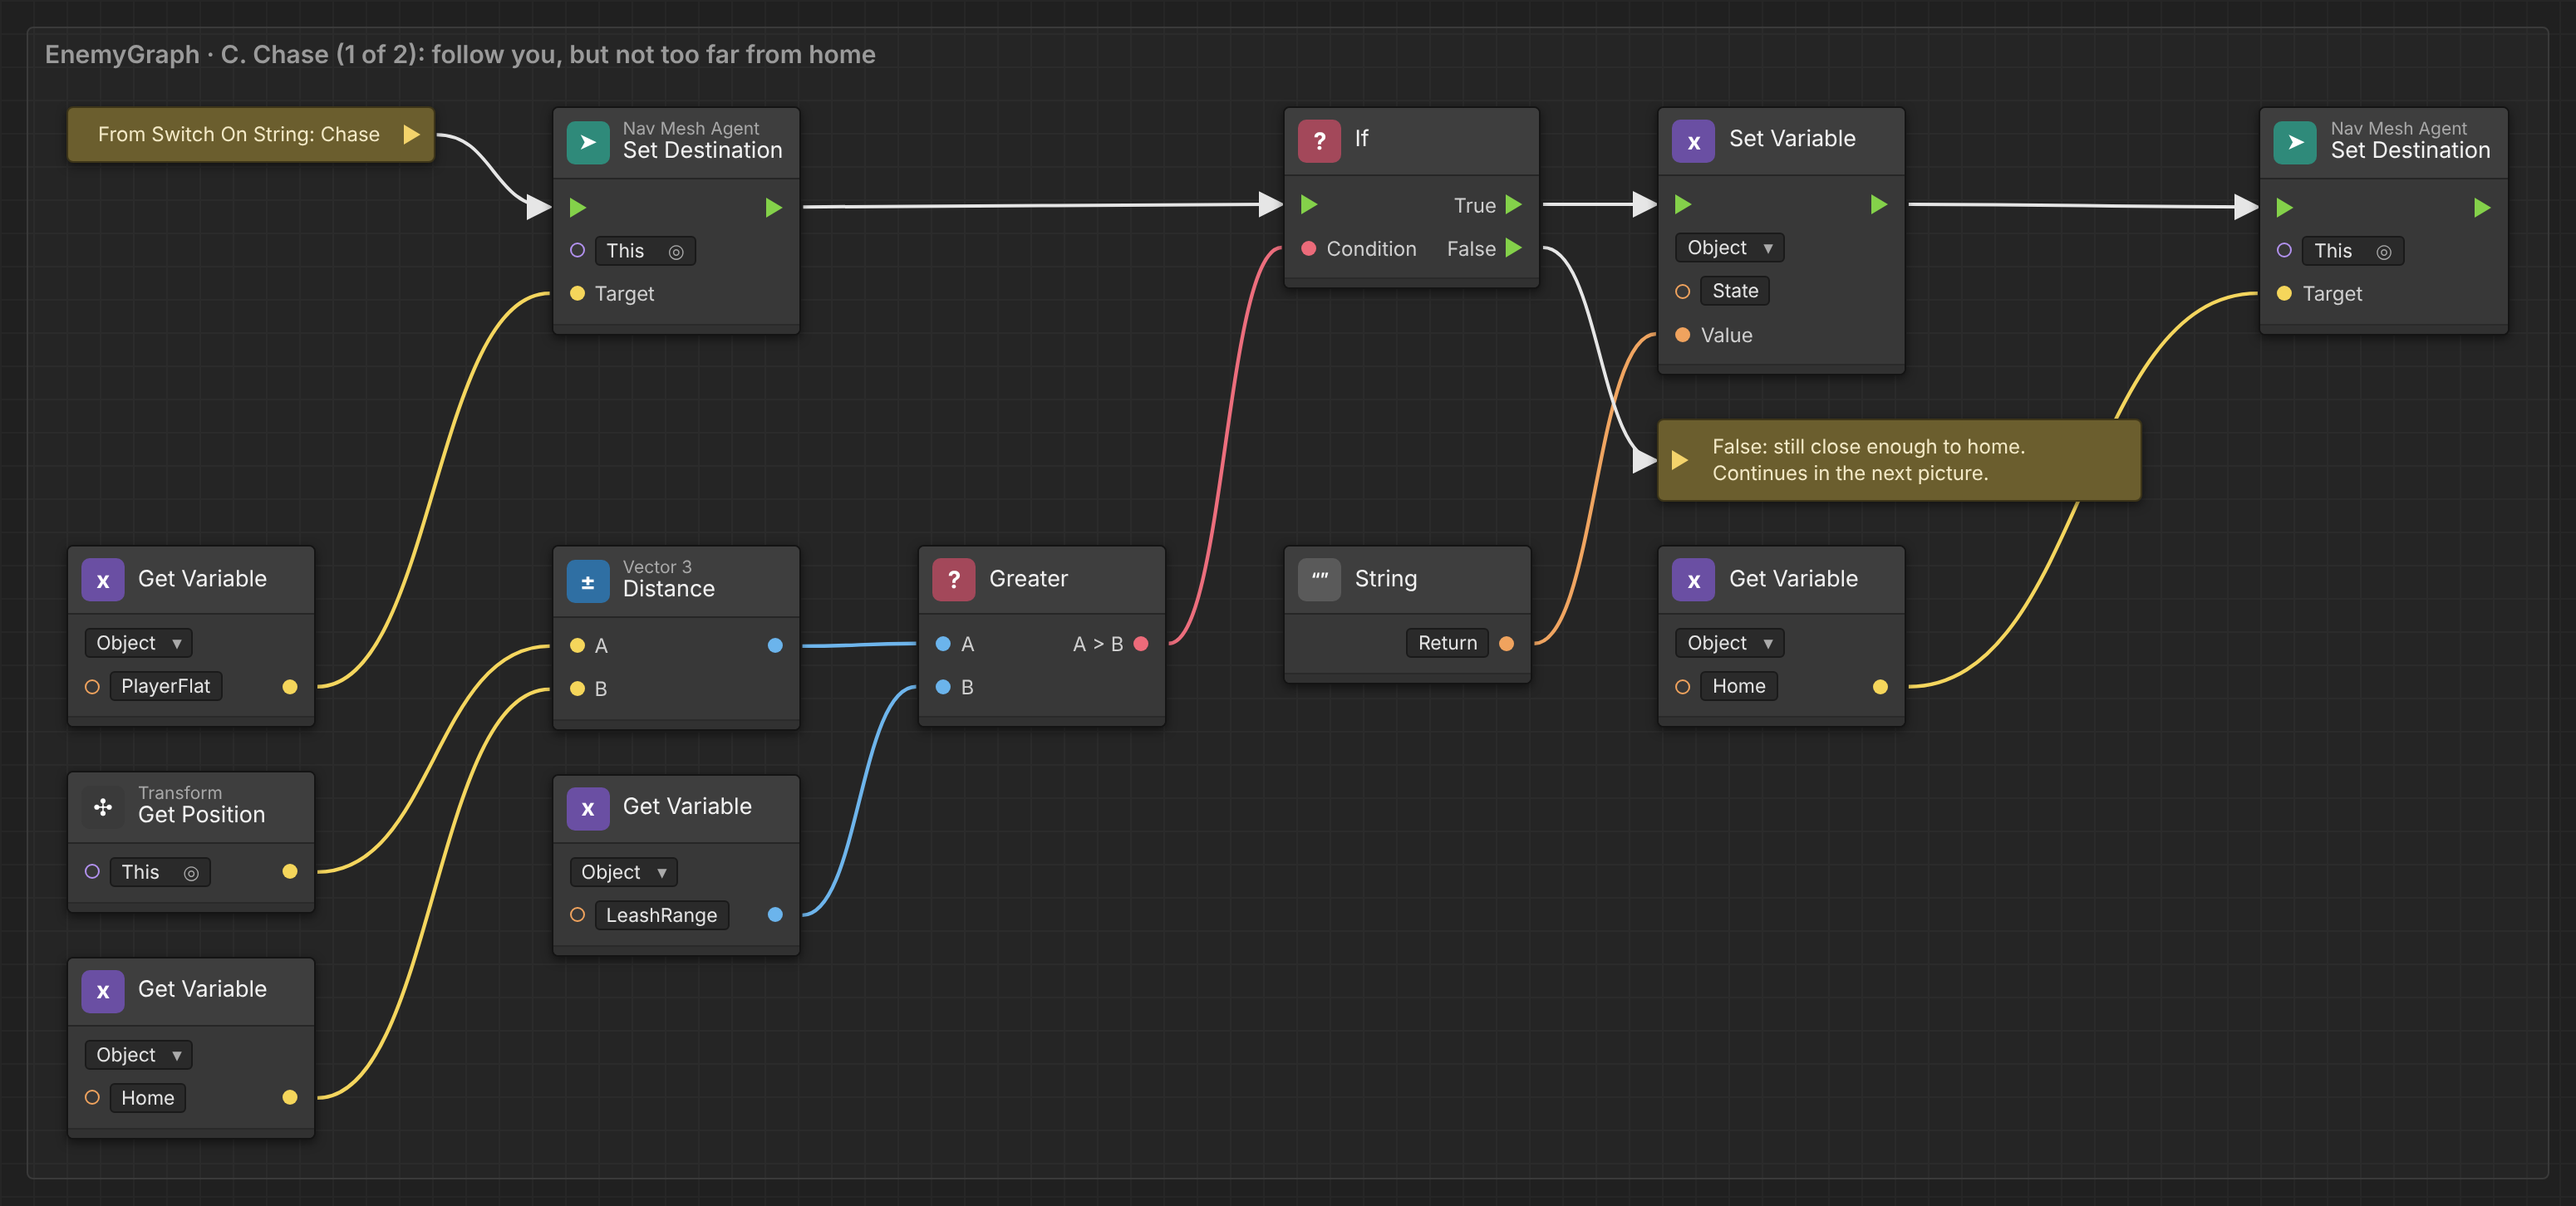
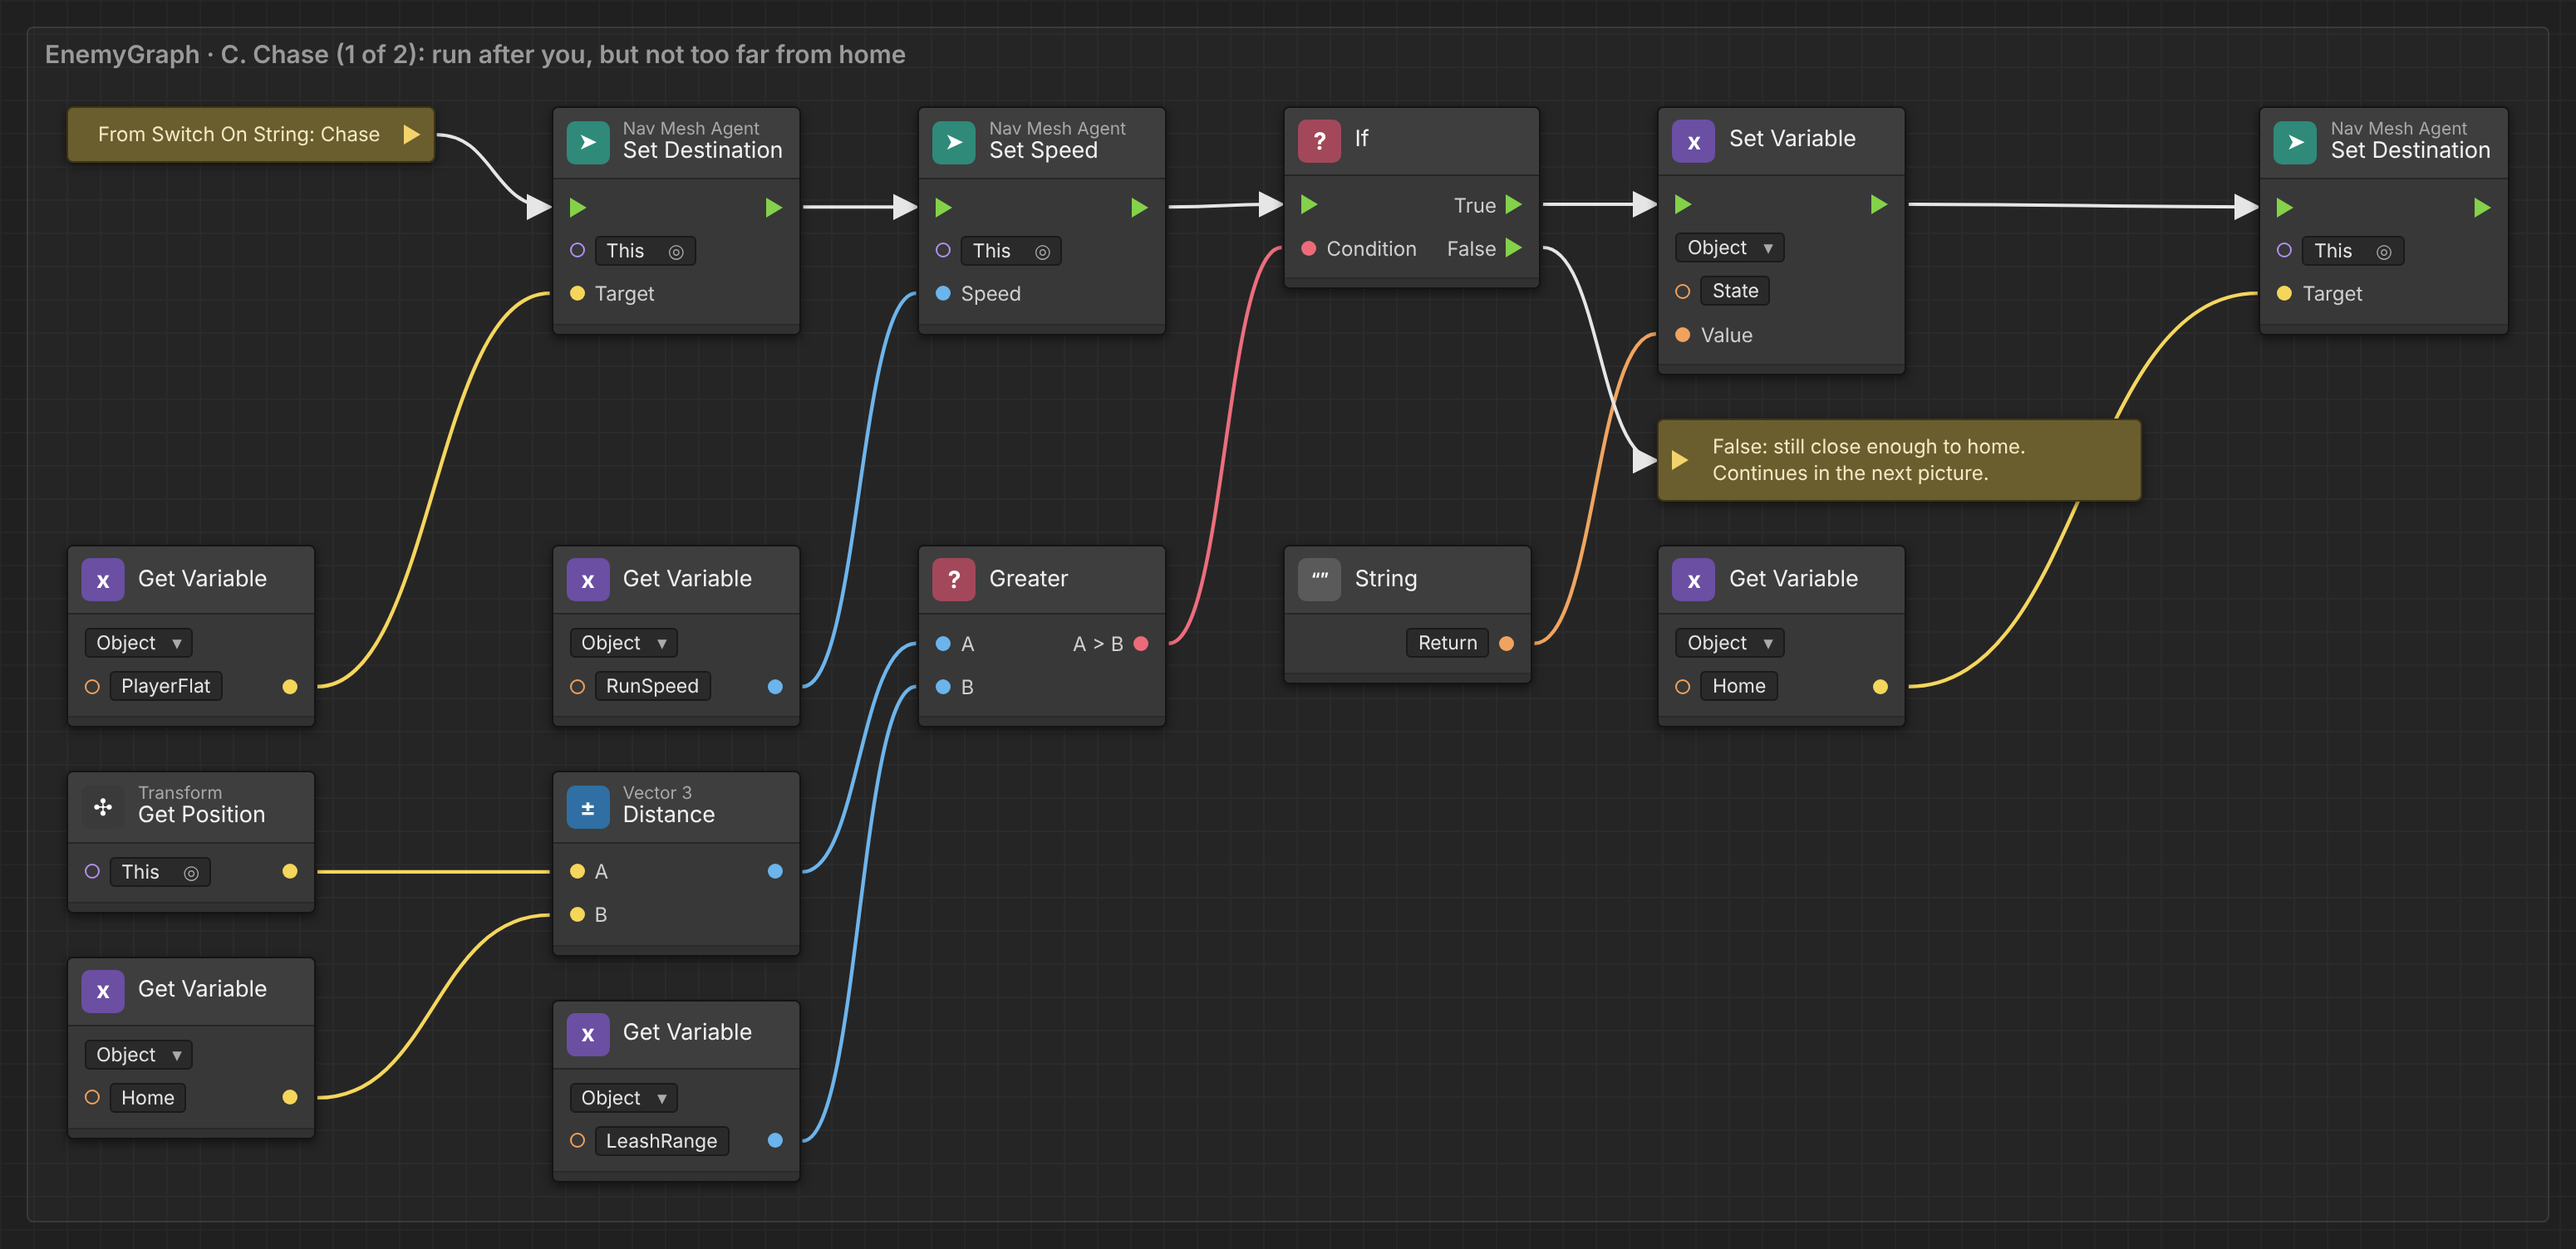
Guide review: fix sword grabbing, HUD attach, death animation, chase speed
Checked the Unity guide against the SDK source:
- 3.1: the sword must not be kinematic. Grabbing pulls the object with a
  joint, which can't move a kinematic body (its speed would read 0). The
  sword now rests on a table.
- 5.1: BS Attached Object needs Uid "me"; an empty uid attaches to nobody.
- 6.6: reset the Hit and Attack triggers before Die, so the killing
  blow's Hit trigger can't pull the enemy out of its death animation.
  Part E is now four pictures.
- 6.4 Chase sets RunSpeed itself, so an enemy you hit while it wanders
  doesn't chase at walking speed.
- Smaller: Blade layer wording, literal-node and Equal "Numeric" tips,
  "Time: Get Time" name, re-baking the NavMesh without the enemy's layer,
  respawn time, three new troubleshooting rows.

Claude-Session: https://claude.ai/code/session_011fRxcoanufUczCyxNcpNPN

diff --git a/docs/unity-first-scene.md b/docs/unity-first-scene.md
@@ -32,6 +32,7 @@ Hierarchy
 ├── PlayerHUD             (attached to your head: your health bar)
 │   └── HUD Bar Pivot
 │       └── HUD Bar Fill
+├── Table                 (the sword rests on it)
 ├── Sword                 (grabbable)
 │   ├── Grip              (where your hand holds it)
 │   ├── Blade             (trigger collider, tag UserTag1)
@@ -207,8 +208,11 @@ knows):
 1. Select `Ground`. **Add Component** → search **NavMeshSurface** → add it.
 2. On the NavMeshSurface component, click **Bake**.
 3. You'll see a blue overlay on the ground in the Scene view. That's where the
-   enemy can walk. If you add obstacles later (rocks, walls), click **Bake**
-   again.
+   enemy can walk. If you add obstacles later (rocks, walls, the table in
+   3.1), click **Bake** again. **Before re-baking once the enemy exists**, set
+   the NavMeshSurface's **Include Layers** to leave out **UserLayer9**
+   (the enemy's layer, Part 4); otherwise the enemy cuts a hole in its own
+   walkable area.
 
 ---
 
@@ -220,12 +224,15 @@ knows):
    synced so others see it move, and a child **Stick** whose collider is the
    handle (held anywhere along its length, like a sword grip).
 2. Rename the root `Sword`. Rename the child `Stick` to `Grip`.
-3. Move the sword somewhere easy to reach, e.g. **Position** `0, 1, -8`
-   (just in front of the spawn point, at waist height).
-4. Select `Sword` and in its **Rigidbody**, tick **Is Kinematic** for now, so
-   it floats there until you grab it instead of falling over. (Grabbing still
-   works.) If you'd rather it lies on a table, leave it unticked and build a
-   table under it.
+3. Make a table for it to rest on: **GameObject → 3D Object → Cube**, rename
+   `Table`, **Position** `0, 0.45, -8`, **Scale** `1.4, 0.9, 0.6` (waist
+   height, just in front of the spawn point).
+4. Lay the sword on it: select `Sword`, **Position** `0.4, 0.95, -8`,
+   **Rotation** `0, 0, 90`. It drops a few centimetres onto the table when
+   you press Play.
+5. Leave the Rigidbody's **Is Kinematic** **unticked**. Your hand holds things
+   with a physics joint, and a joint can't move a kinematic body: the sword
+   would stay stuck, and its speed (which the enemy checks) would read 0.
 
 ### 3.2 Add your sword model
 1. From your sword pack, drag the sword **prefab or model** onto `Sword` in
@@ -246,15 +253,16 @@ knows):
 2. **Add Component → Box Collider**. Tick **Is Trigger**. Set its **Size** and
    **Center** so the green box covers the blade of your model (look in the
    Scene view).
-3. Set `Blade`'s **Layer** to **UserLayer9**. (Hands and teleport ignore it,
-   so it won't get in the way of grabbing.) If Unity asks "change children?",
-   choose **No, this object only**.
+3. Set `Blade`'s **Layer** to **UserLayer9**. (Teleport and the grapple
+   ignore this layer, and grabbing only looks at the Grabbable layer, so the
+   blade never gets in the way of picking the sword up by its grip.)
 4. Set `Blade`'s **Tag** to **UserTag1**. That's how the enemy knows "this is
    a sword".
 
 > Why a trigger? A trigger doesn't push things around; it only reports "I
 > touched something". The sword's Rigidbody (on the root) makes Unity report
-> the touch.
+> the touch. It also means the blade doesn't rest on anything: the sword lies
+> on its grip, which is why it's laid flat on the table.
 
 ---
 
@@ -352,6 +360,8 @@ left edge. Try it in the Inspector, then set it back to `1, 1, 1`.
 ### 5.1 HUD bar under your view
 1. **GameObject → Create Empty** → rename `PlayerHUD`.
 2. **Add Component** → **BS Attached Object**. Set:
+   - **Uid**: `me` (means "the player looking at it". Left empty, it
+     attaches to nobody.)
    - **Avatar Attachment Point**: `HEAD`
    - **Attachment Position**: `0, -0.25, 0.7` (a little below your eyeline)
    - **Auto Attach**: ticked
@@ -392,8 +402,11 @@ left edge. Try it in the Inspector, then set it back to `1, 1, 1`.
 - **Numbers on ports:** click an unconnected input port's box to type a value.
 - **Words and numbers with no box:** some ports (like **Set Variable**'s
   Value, or **Equal**'s A and B) have no box to type into. Add a small
-  literal node instead: search **String Literal** (for words like `Chase`) or
-  **Float Literal** (for numbers), type the value in it, and wire it in.
+  literal node instead: in the fuzzy finder type **String** (for words like
+  `Chase`) or **Float** (for numbers) and pick the result marked
+  **Literal**. Type the value in it and wire it in.
+- **Comparing words:** if an **Equal** or **Not Equal** node shows number
+  boxes on A and B, select it and untick **Numeric** in the Graph Inspector.
 - **Save** with Ctrl+S.
 
 **Pictures:** every graph below has a picture drawn in the style of Unity's
@@ -537,7 +550,7 @@ Wherever a step below says **PlayerFlat** or **Distance to player**, use a
 1. **If**: Get Variable `PlayerDistance` **Less** `AggroRange` →
    - True: **Set Variable** `State` = `Chase` → **Nav Mesh Agent: Set Speed**
      ← `RunSpeed`.
-   - False: **If**: **Get Time** (Time: Time) **Greater** `NextWanderTime` →
+   - False: **If**: **Time: Get Time** **Greater** `NextWanderTime` →
      True:
      1. **Random: Inside Unit Circle** → **Expose Vector 2** (x, y).
      2. **Vector 3: Create**: X = x × `WanderRadius`, Y = `0`, Z = y ×
@@ -555,7 +568,9 @@ Wherever a step below says **PlayerFlat** or **Distance to player**, use a
 ![Wander, part 3: walk speed, and NextWanderTime = now + 3 to 6 seconds](images/unity-graphs/6-4-wander-c.png)
 
 **Chase**
-1. **Nav Mesh Agent: Set Destination** ← PlayerFlat.
+1. **Nav Mesh Agent: Set Destination** ← PlayerFlat → **Nav Mesh Agent: Set
+   Speed** ← `RunSpeed`. (Setting the speed here too means it runs however
+   the chase started, including when you hit it from behind.)
 2. → **If**: **Vector 3: Distance** (Transform position, Get Variable
    `Home`) **Greater** `LeashRange` → True: **Set Variable** `State` =
    `Return`. **Nav Mesh Agent: Set Destination** ← `Home`.
@@ -632,30 +647,35 @@ enough, the enemy is alive, and 2 s have passed since the last hit.
    **Coroutine** (this lets it wait).
 2. → **Set Variable** `State` = `Dead`.
 3. → **Nav Mesh Agent: Reset Path**.
-4. → **Animator: Set Trigger** (`Anim`) `Die`.
-5. → **Capsule Collider: Set Enabled** (target **This**) = false (can't be hit
+4. → **Animator: Reset Trigger** (`Anim`) `Hit` → **Animator: Reset Trigger**
+   (`Anim`) `Attack`. (The killing blow also asked for the Hit animation.
+   Clearing it stops Hit from interrupting the death animation.)
+5. → **Animator: Set Trigger** (`Anim`) `Die`.
+
+![Dying, part 1: State Dead, stop, clear the Hit and Attack triggers, play Die](images/unity-graphs/6-6-a-die.png)
+
+6. → **Capsule Collider: Set Enabled** (target **This**) = false (can't be hit
    while dead).
-6. → **Game Object: Set Active** (target `HealthBar`) = false.
-
-![Dying, part 1: State Dead, stop, play Die, turn off the hitbox and hide the health bar](images/unity-graphs/6-6-a-die.png)
-
-7. → **Wait For Seconds** `2` (let the death animation play) → **Game
+7. → **Game Object: Set Active** (target `HealthBar`) = false.
+8. → **Wait For Seconds** `2` (let the death animation play) → **Game
    Object: Set Active** (`Model`) = false.
 
-8. → **Wait For Seconds** ← `RespawnSeconds`.
-9. → **Nav Mesh Agent: Warp** ← Get Variable `Home`.
+![Dying, part 2: turn off the hitbox, hide the health bar, wait 2 s, hide the model](images/unity-graphs/6-6-b-vanish.png)
 
-![Dying, part 2: wait 2 s, hide the model, wait RespawnSeconds, warp home](images/unity-graphs/6-6-b-wait-and-respawn.png)
-
-10. → **Set Variable** `Health` ← `MaxHealth` → **Trigger Custom Event**
+9. → **Wait For Seconds** ← `RespawnSeconds`.
+10. → **Nav Mesh Agent: Warp** ← Get Variable `Home`.
+11. → **Set Variable** `Health` ← `MaxHealth` → **Trigger Custom Event**
     `UpdateBar`.
-11. → **Game Object: Set Active** (`Model`) = true → (`HealthBar`) = true →
-    **Capsule Collider: Set Enabled** = true.
-12. → **Animator: Rebind** (target `Anim`) (back to Idle, out of the death
-    pose).
-13. → **Set Variable** `State` = `Wander`.
 
-![Dying, part 3: refill Health, show the model and bar, turn the hitbox on, reset the Animator, wander](images/unity-graphs/6-6-c-come-back.png)
+![Dying, part 3: wait RespawnSeconds, warp home, refill Health and update the bar](images/unity-graphs/6-6-c-respawn.png)
+
+12. → **Game Object: Set Active** (`Model`) = true → (`HealthBar`) = true →
+    **Capsule Collider: Set Enabled** = true.
+13. → **Animator: Rebind** (target `Anim`) (back to Idle, out of the death
+    pose).
+14. → **Set Variable** `State` = `Wander`.
+
+![Dying, part 4: show the model and bar, turn the hitbox on, reset the Animator, wander](images/unity-graphs/6-6-d-come-back.png)
 
 ### 6.7 Part F: when you die, it goes home
 1. **On Global Event**, name `PlayerDied`, Arguments `0`.
@@ -702,7 +722,7 @@ Add **Debug: Log** nodes to print values to the Console.
 - [ ] Touch the enemy gently: no damage. Swing properly: health bar drops.
 - [ ] Swing twice quickly: only the first counts (2 s).
 - [ ] Does 1.5 m/s feel right as the minimum? (Change `MinSwingSpeed`.)
-- [ ] Kill it: death animation, gone, back after 15 s.
+- [ ] Kill it: death animation, gone, back about 17 s later (2 s + 15 s).
 - [ ] Let it beat you: back at the spawn point, full health.
 - [ ] Is the HUD bar readable and not in the way? (Change the
       **Attachment Position** on `PlayerHUD`.)
@@ -715,7 +735,9 @@ Add **Debug: Log** nodes to print values to the Console.
 
 | Problem | Try |
 |---|---|
-| Enemy doesn't move | NavMesh baked? (blue overlay on the ground.) Enemy placed on the blue area? Graph saved? |
+| Enemy doesn't move | NavMesh baked? (blue overlay on the ground.) Enemy placed on the blue area? Graph saved? A hole in the blue around the enemy: re-bake without **UserLayer9** (2.3) |
+| Can't pick up the sword, or it won't move | `Sword`'s Rigidbody **Is Kinematic** must be off (3.1). The `Grip` must still have its collider and **BS Grab Handle** |
+| Dead enemy jumps up again | Part E step 4: reset the `Hit` and `Attack` triggers before `Die`. In the Animator, the Death state must have no transitions out |
 | Enemy slides without animating | `Anim` variable points at the `Model`'s Animator? Parameter named exactly `Speed`? |
 | Enemy floats or sinks | Change the NavMeshAgent's **Base Offset**, or the `Model` child's Y position |
 | Sword hits never register | `Blade` has **Is Trigger** on, Tag **UserTag1**, and is a child of `Sword` (which has the Rigidbody)? Enemy's Capsule Collider **Is Trigger** on? Try moving `Blade` to the **Default** layer |
